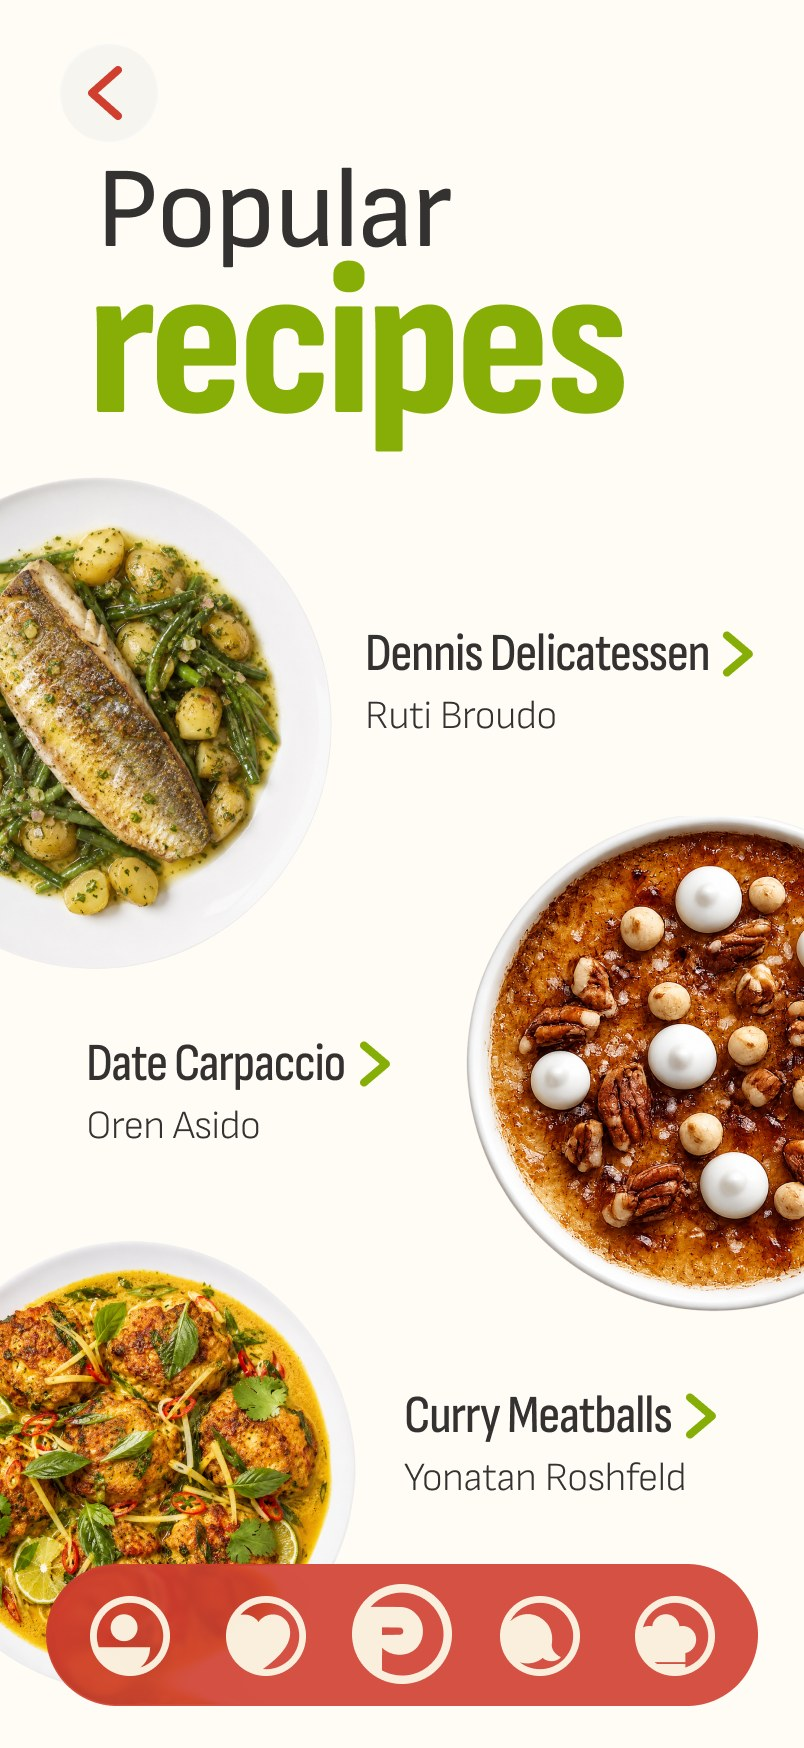
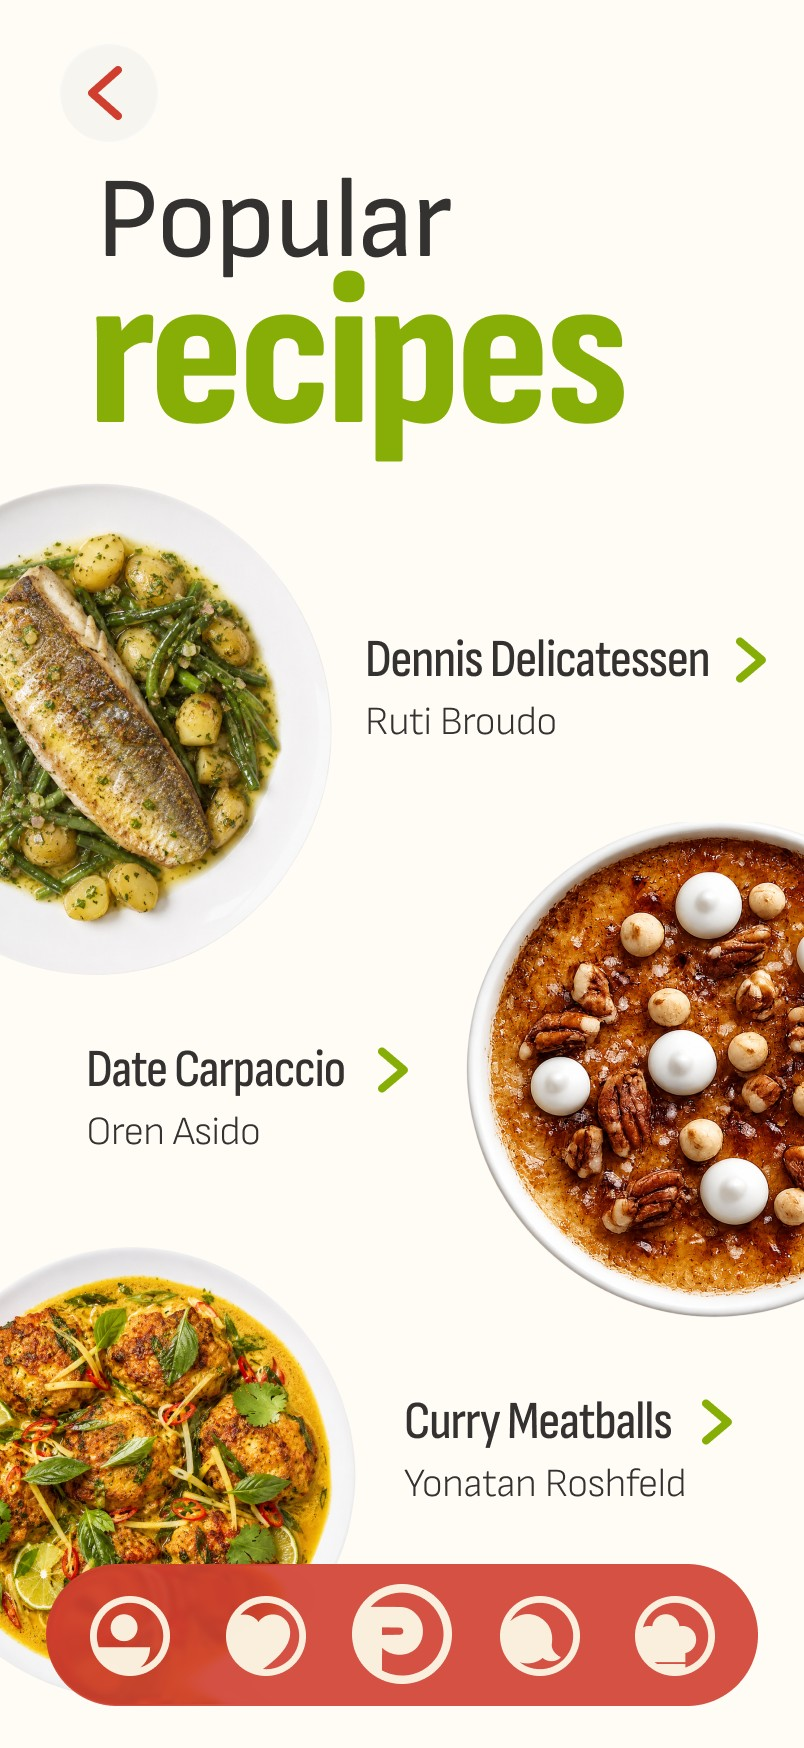
Kiddoz: redesigned screens, wireframes and updated project info; resume bullets
Claude-Session: https://claude.ai/code/session_01NL83kx43z6CjtTsG6VWgUt

diff --git a/projects/kiddoz.html b/projects/kiddoz.html
@@ -9,7 +9,7 @@
 <link rel="preconnect" href="https://fonts.gstatic.com" crossorigin>
 <link href="https://fonts.googleapis.com/css2?family=Inter:opsz,wght@14..32,400..700&display=swap" rel="stylesheet">
 <link rel="stylesheet" href="../css/style.css">
-<link rel="stylesheet" href="../css/case-study.css?v=48">
+<link rel="stylesheet" href="../css/case-study.css?v=49">
 <link rel="icon" href="../favicon.svg" type="image/svg+xml">
 <link rel="icon" href="../favicon-32.png" sizes="32x32" type="image/png">
 <link rel="apple-touch-icon" href="../apple-touch-icon.png">
@@ -42,20 +42,20 @@
       </h1>
       <p class="cs-hero-sub reveal"><span class="en">Kiddoz brings every kids' activity nearby into one place,<br>matched to your child.</span></p>
       <p class="cs-lede">
-        <span class="en">Parents look for something to do with their kids almost every day. The answers are spread across WhatsApp groups, Facebook pages and municipal sites, often outdated and rarely filtered by age. Kiddoz gathers them on one map, by location, cost and the child's personality, with an AI chat that helps parents find the right activity fast.</span>
+        <span class="en">Kiddoz is a mobile app designed to help parents discover activities tailored to their children's interests, ages and location. It started as a collaborative academic project; I later revisited Kiddoz independently to refine its visual identity, typography, iconography and overall interface consistency, while preserving the original user experience and product structure.</span>
       </p>
       </div>
     </div>
     <div class="cs-media">
-      <div class="kz-stage reveal" role="img" aria-label="Three Kiddoz screens: the welcome screen, the activity map and the smiley onboarding screen">
-        <div class="kz-phone kz-l kz-out"><img src="../images/kiddoz/v2/screen-profile-nili.jpg" alt=""></div>
-        <div class="kz-phone kz-c"><img src="../images/kiddoz/v2/screen-map.jpg" alt=""></div>
-        <div class="kz-phone kz-r kz-out"><img src="../images/kiddoz/onboarding-1.jpg" alt=""></div>
+      <div class="kz-stage reveal" role="img" aria-label="Three redesigned Kiddoz screens: a child’s personal area, the activity map and the welcome screen">
+        <div class="kz-phone kz-l kz-out"><img src="../images/kiddoz/v3/screen-profile-kids.jpg" alt=""></div>
+        <div class="kz-phone kz-c"><img src="../images/kiddoz/v3/screen-map.jpg" alt=""></div>
+        <div class="kz-phone kz-r kz-out"><img src="../images/kiddoz/v3/screen-welcome.jpg" alt=""></div>
       </div>
       <div class="cs-meta reveal">
-        <div><span class="cs-label"><span class="en">Role</span></span><span class="v"><span class="en">Led concept &amp; ideation, co-designed the UX/UI and visual language</span></span></div>
+        <div><span class="cs-label"><span class="en">Project type</span></span><span class="v"><span class="en">Academic team project · Independent UI redesign</span></span></div>
+        <div><span class="cs-label"><span class="en">My role</span></span><span class="v"><span class="en">UX research, product ideation &amp; UI design (team)<br>Visual redesign &amp; UI refinement (independent)</span></span></div>
         <div><span class="cs-label"><span class="en">Team</span></span><span class="v"><span class="en">Shelly Elkabetz, Adi Fleisher, Aviv Navot</span></span></div>
-        <div><span class="cs-label"><span class="en">Platform</span></span><span class="v"><span class="en">iOS app</span></span></div>
         <div><span class="cs-label"><span class="en">Methods</span></span><span class="v accent"><span class="en">Interviews, journey map, competitive analysis</span></span></div>
       </div>
     </div>
@@ -336,11 +336,11 @@
         <div class="cs-card reveal">
           <span class="cs-label"><span class="en">Information architecture</span></span>
           <div class="cs-tabbar" aria-hidden="true">
-            <span><span class="en">Profile</span></span>
-            <span><span class="en">Favorites</span></span>
-            <span class="on"><span class="en">Map</span></span>
-            <span><span class="en">Activities</span></span>
             <span><span class="en">Chat</span></span>
+            <span><span class="en">Activities</span></span>
+            <span class="on"><span class="en">Explore</span></span>
+            <span><span class="en">Favorites</span></span>
+            <span><span class="en">Profile</span></span>
           </div>
           <p class="d"><span class="en">Five tabs with the map in the center, because "what's near me?" is where most searches start. The chat has its own tab, one tap from anywhere.</span></p>
         </div>
@@ -395,13 +395,13 @@
 
     <div class="cs-media cs-sub">
       <div class="cs-wires">
-        <figure class="cs-wire-item"><img src="../images/kiddoz/v2/wf-chat-sketch.jpg" alt="Wireframe: AI chat" loading="lazy"></figure>
-        <figure class="cs-wire-item"><img src="../images/kiddoz/v2/wf-activity-sketch.jpg" alt="Wireframe: activity page" loading="lazy"></figure>
-        <figure class="cs-wire-item"><img src="../images/kiddoz/v2/wf-checkout-sketch.jpg" alt="Wireframe: choosing kids and paying" loading="lazy"></figure>
-        <figure class="cs-wire-item"><img src="../images/kiddoz/v2/wf-confirm-sketch.jpg" alt="Wireframe: booking confirmed" loading="lazy"></figure>
-        <figure class="cs-wire-item"><img src="../images/kiddoz/v2/wf-friends-sketch.jpg" alt="Wireframe: my friends" loading="lazy"></figure>
+        <figure class="cs-wire-item"><img src="../images/kiddoz/v3/wf-chat.jpg" alt="Wireframe: chat with Kiddy" loading="lazy"></figure>
+        <figure class="cs-wire-item"><img src="../images/kiddoz/v3/wf-activity.jpg" alt="Wireframe: activity page" loading="lazy"></figure>
+        <figure class="cs-wire-item"><img src="../images/kiddoz/v3/wf-checkout.jpg" alt="Wireframe: choosing a child and booking" loading="lazy"></figure>
+        <figure class="cs-wire-item"><img src="../images/kiddoz/v3/wf-confirm.jpg" alt="Wireframe: booking confirmed" loading="lazy"></figure>
+        <figure class="cs-wire-item"><img src="../images/kiddoz/v3/wf-friends.jpg" alt="Wireframe: my friends" loading="lazy"></figure>
       </div>
-      <p class="cs-caption"><span class="en">Wireframes for the chat and the booking flow: activity, choosing which kids are coming, paying with a benefit, and confirmation.</span></p>
+      <p class="cs-caption"><span class="en">Wireframes for the chat and the booking flow: activity, choosing which child is coming, paying with a perk, and confirmation.</span></p>
     </div>
   </section>
 
@@ -412,19 +412,19 @@
         <span class="cs-glass g-red" style="--fd:-4.5s" aria-hidden="true"><span class="pane"><span>05</span></span></span>
         <div><span class="cs-pill"><span class="en">Prototype · Final design</span></span></div>
         <h2 class="cs-h2"><span class="en">Playful for kids, <em>clear for parents.</em></span></h2>
-        <p class="cs-lede"><span class="en">Bright colors and a friendly smiley for the mood, big round buttons and short labels for parents scrolling with one hand.</span></p>
+        <p class="cs-lede"><span class="en">Bright colors and a friendly smiley for the mood, clear type and short labels for parents scrolling with one hand. In my independent redesign I unified the type system, replaced the icons with one outline set, moved navigation into a floating bar and used the original brand colors with more restraint, keeping every screen and flow.</span></p>
       </div>
     </div>
 
     <div class="cs-media" style="margin-top:clamp(48px,6vw,80px)">
       <div class="cs-phones-panel reveal">
         <div class="cs-phones">
-          <div class="cs-phone"><div class="shell"><div class="screen"><img src="../images/kiddoz/v2/screen-map.jpg" alt="Map home with activity pins" loading="lazy"></div></div><span class="t"><span class="en">Map home</span></span><span class="d"><span class="en">Every pin is something happening near you.</span></span></div>
-          <div class="cs-phone"><div class="shell"><div class="screen"><img src="../images/kiddoz/v2/screen-filter.jpg" alt="Filter: free, girls only, boys only, up to 1 km, up to 8 kids, indoors" loading="lazy"></div></div><span class="t"><span class="en">Quick filter</span></span><span class="d"><span class="en">Free, up to 1 km, small groups, indoors. One tap each.</span></span></div>
-          <div class="cs-phone"><div class="shell"><div class="screen"><img src="../images/kiddoz/v2/screen-activity.jpg" alt="Activity page: circus in Holon" loading="lazy"></div></div><span class="t"><span class="en">Activity</span></span><span class="d"><span class="en">When, where and how much, plus a check if it fits your child.</span></span></div>
-          <div class="cs-phone"><div class="shell"><div class="screen"><img src="../images/kiddoz/v2/screen-chat.jpg" alt="Chat opening: free typing or guided answers" loading="lazy"></div></div><span class="t"><span class="en">Chat</span></span><span class="d"><span class="en">The smiley asks how you'd like to talk.</span></span></div>
-          <div class="cs-phone"><div class="shell"><div class="screen"><img src="../images/kiddoz/v2/screen-chat-budget.jpg" alt="Chat: choosing a price range" loading="lazy"></div></div><span class="t"><span class="en">Guided answers</span></span><span class="d"><span class="en">Each tap narrows it down, like choosing a budget.</span></span></div>
-          <div class="cs-phone"><div class="shell"><div class="screen"><img src="../images/kiddoz/v2/screen-profile.jpg" alt="Personal area with a profile for each child" loading="lazy"></div></div><span class="t"><span class="en">Profile</span></span><span class="d"><span class="en">A profile for each child, with friends, groups and benefits.</span></span></div>
+          <div class="cs-phone"><div class="shell"><div class="screen"><img src="../images/kiddoz/v3/screen-map.jpg" alt="Explore map with activity pins" loading="lazy"></div></div><span class="t"><span class="en">Explore</span></span><span class="d"><span class="en">Every pin is something happening near you.</span></span></div>
+          <div class="cs-phone"><div class="shell"><div class="screen"><img src="../images/kiddoz/v3/screen-filter.jpg" alt="Filters: free, girls only, boys only, within 1 km, up to 8 participants, indoors" loading="lazy"></div></div><span class="t"><span class="en">Quick filter</span></span><span class="d"><span class="en">Free, within 1 km, small groups, indoors. One tap each.</span></span></div>
+          <div class="cs-phone"><div class="shell"><div class="screen"><img src="../images/kiddoz/v3/screen-activity.jpg" alt="Activity page: circus in Holon" loading="lazy"></div></div><span class="t"><span class="en">Activity</span></span><span class="d"><span class="en">When, where and how much, plus a check if it fits your child.</span></span></div>
+          <div class="cs-phone"><div class="shell"><div class="screen"><img src="../images/kiddoz/v3/screen-chat.jpg" alt="Chat with Kiddy: type freely or guided replies" loading="lazy"></div></div><span class="t"><span class="en">Chat</span></span><span class="d"><span class="en">Kiddy asks how you'd like to talk.</span></span></div>
+          <div class="cs-phone"><div class="shell"><div class="screen"><img src="../images/kiddoz/v3/screen-chat-budget.jpg" alt="Chat: choosing a price range" loading="lazy"></div></div><span class="t"><span class="en">Guided answers</span></span><span class="d"><span class="en">Each tap narrows it down, like choosing a budget.</span></span></div>
+          <div class="cs-phone"><div class="shell"><div class="screen"><img src="../images/kiddoz/v3/screen-kid-details.jpg" alt="A child’s profile: traits, hobbies and needs" loading="lazy"></div></div><span class="t"><span class="en">Profile</span></span><span class="d"><span class="en">A profile for each child: traits, hobbies and needs.</span></span></div>
         </div>
       </div>
     </div>

diff --git a/resume.html b/resume.html
@@ -9,7 +9,7 @@
 <link rel="preconnect" href="https://fonts.gstatic.com" crossorigin>
 <link href="https://fonts.googleapis.com/css2?family=Inter:opsz,wght@14..32,300..700&display=swap" rel="stylesheet">
 <link rel="stylesheet" href="css/style.css">
-<link rel="stylesheet" href="css/case-study.css?v=48">
+<link rel="stylesheet" href="css/case-study.css?v=49">
 <link rel="icon" href="favicon.svg" type="image/svg+xml">
 <link rel="icon" href="favicon-32.png" sizes="32x32" type="image/png">
 <link rel="apple-touch-icon" href="apple-touch-icon.png">
@@ -79,9 +79,9 @@
           </section>
           <section>
             <h3 class="rs-sec">Selected Projects</h3>
-            <div class="rs-item"><a class="rs-proj" href="projects/pinch.html">Pinch | Product Design, UX/UI &amp; Branding</a><p>Graduation project, awarded Best Exhibition. An AI cooking platform built around Israeli chefs. I interviewed chef Assaf Granit and turned it into an AI conversation flow with Claude, designed the UX, UI and brand, and explored the landing page in Lovable, then designed it in Figma.</p></div>
-            <div class="rs-item"><a class="rs-proj" href="projects/kiddoz.html">Kiddoz | Product Design &amp; UX/UI</a><p>A team project helping parents find activities for kids aged 3–10 based on location, budget and preferences. I led the concept and ideation, and co-designed the UX/UI and visual language.</p></div>
-            <div class="rs-item"><a class="rs-proj" href="projects/blume-and-co.html">Blume &amp; Co | Branding &amp; Digital Design</a><p>Branding for a floral and lifestyle boutique: logo, color palette, AI-generated imagery and brand applications, plus a delivery app with catalog, favorites, order tracking and checkout.</p></div>
+            <div class="rs-item"><a class="rs-proj" href="projects/pinch.html">Pinch | Product Design, UX/UI &amp; Branding</a><ul class="rs-bul"><li>AI cooking platform built around Israeli chefs (Best Exhibition award)</li><li>Shenkar graduation project, designed end to end</li><li>Interviewed chefs Assaf Granit and Tzila Shifro; analyzed competitors</li><li>Turned Assaf Granit's interview into an AI conversation in Claude</li><li>Designed the UX, UI, brand and landing page (Lovable, then Figma)</li></ul></div>
+            <div class="rs-item"><a class="rs-proj" href="projects/kiddoz.html">Kiddoz | UX/UI Design &amp; Independent Redesign</a><ul class="rs-bul"><li>Team project helping parents find activities for kids aged 3–10</li><li>Team role: UX research, product ideation and UI design</li><li>Independent redesign: a Figma design system, type and icons</li><li>Refined every screen and the prototype, keeping the original UX</li></ul></div>
+            <div class="rs-item"><a class="rs-proj" href="projects/blume-and-co.html">Blume &amp; Co | UX/UI &amp; Branding</a><ul class="rs-bul"><li>Designed a delivery app: catalog, favorites, tracking and checkout</li><li>Created the brand identity for a floral and lifestyle boutique</li><li>Designed logo, palette, AI-generated imagery and brand applications</li></ul></div>
           </section>
           <section>
             <h3 class="rs-sec">Work Experience</h3>
@@ -91,7 +91,7 @@
           </section>
           <section>
             <h3 class="rs-sec">Military Service</h3>
-            <div class="rs-item"><b>2020–2022 | Artillery Instructor, MLRS | IDF</b><p>Trained soldiers to operate launch and fire-control systems, in class and in the field. Promoted to Senior Instructor in November 2020: managed the department, planned and assigned training, coordinated schedules and worked closely with senior commanders and officers.</p><p class="rs-award">Base Commander's Award of Excellence | September 2021</p></div>
+            <div class="rs-item"><b>2020–2022 | Artillery Instructor, MLRS | IDF</b><ul class="rs-bul"><li>Trained soldiers on launch and fire-control systems</li><li>Promoted to Senior Instructor (Nov 2020) and ran the department</li><li>Planned and assigned training and coordinated schedules</li><li>Worked closely with senior commanders and officers</li></ul><p class="rs-award">Base Commander's Award of Excellence | September 2021</p></div>
           </section>
         </div>
       </div>

diff --git a/index.html b/index.html
@@ -9,7 +9,7 @@
 <link rel="preconnect" href="https://fonts.gstatic.com" crossorigin>
 <link href="https://fonts.googleapis.com/css2?family=Inter:opsz,wght@14..32,300..700&display=swap" rel="stylesheet">
 <link rel="stylesheet" href="css/style.css">
-<link rel="stylesheet" href="css/case-study.css?v=48">
+<link rel="stylesheet" href="css/case-study.css?v=49">
 <link rel="stylesheet" href="css/home.css?v=15">
 <link rel="icon" href="favicon.svg" type="image/svg+xml">
 <link rel="icon" href="favicon-32.png" sizes="32x32" type="image/png">
@@ -62,7 +62,7 @@
             <span class="hm-go" aria-hidden="true"><svg viewBox="0 0 24 24"><path d="M5 12h14M13 6l6 6-6 6"/></svg></span>
           </div>
           <div class="hm-media hm-phones" aria-hidden="true">
-            <div class="hm-phone p-l"><img src="images/pinch/v2/screen-popular.jpg?v=1" alt="" loading="lazy"></div>
+            <div class="hm-phone p-l"><img src="images/pinch/v2/screen-popular.jpg?v=2" alt="" loading="lazy"></div>
             <div class="hm-phone p-c"><img src="images/pinch/v2/screen-chefs.jpg?v=3" alt=""></div>
             <div class="hm-phone p-r"><img src="images/pinch/v2/screen-chat.jpg?v=2" alt="" loading="lazy"></div>
           </div>
@@ -78,8 +78,8 @@
             <span class="hm-go" aria-hidden="true"><svg viewBox="0 0 24 24"><path d="M5 12h14M13 6l6 6-6 6"/></svg></span>
           </div>
           <div class="hm-media hm-phones hm-air" aria-hidden="true">
-            <div class="hm-phone k-a"><img src="images/kiddoz/onboarding-2.jpg" alt="" loading="lazy"></div>
-            <div class="hm-phone k-b"><img src="images/kiddoz/onboarding-1.jpg" alt="" loading="lazy"></div>
+            <div class="hm-phone k-a"><img src="images/kiddoz/v3/screen-map.jpg" alt="" loading="lazy"></div>
+            <div class="hm-phone k-b"><img src="images/kiddoz/v3/screen-match.jpg" alt="" loading="lazy"></div>
           </div>
         </a>
       </article>

diff --git a/css/case-study.css b/css/case-study.css
@@ -736,6 +736,10 @@ body.resume{ padding-top:0; }
 .rs-item p{ margin:4px 0 0; font-size:14.5px; line-height:1.6; color:var(--cs-soft); }
 .rs-proj{ display:inline-block; font-size:15px; font-weight:600; color:var(--cs-ink); text-decoration:none; background-image:linear-gradient(var(--c-lime),var(--c-lime)); background-repeat:no-repeat; background-size:100% 2px; background-position:0 100%; transition:background-size .4s cubic-bezier(.16,1,.3,1); }
 .rs-proj:hover{ background-size:100% 100%; }
+.rs-bul{ list-style:disc outside !important; margin:6px 0 0; padding-left:18px !important; font-size:14.5px; line-height:1.6; color:var(--cs-soft); }
+.rs-bul li{ display:list-item !important; margin:2px 0; }
+.rs-bul + .rs-award{ margin-top:8px; }
+.rs-bul li::marker{ color:var(--cs-accent, #c5a4f5); }
 .rs-award{ font-weight:500; color:var(--cs-ink) !important; }
 @media (max-width:760px){ .rs-cols{ grid-template-columns:1fr; } .rs-main{ padding-left:22px; } .rs-main .rs-sec::before{ left:-27px; } .rs-bar{ padding:22px; } }
 .rs-doc, .rs-doc h2, .rs-doc h3, .rs-bar h1{ font-family:var(--cs-display); }

diff --git a/projects/jaco.html b/projects/jaco.html
@@ -9,7 +9,7 @@
 <link rel="preconnect" href="https://fonts.gstatic.com" crossorigin>
 <link href="https://fonts.googleapis.com/css2?family=Inter:opsz,wght@14..32,400..800&family=Heebo:wght@500;700;800&display=swap" rel="stylesheet">
 <link rel="stylesheet" href="../css/style.css">
-<link rel="stylesheet" href="../css/case-study.css?v=48">
+<link rel="stylesheet" href="../css/case-study.css?v=49">
 <link rel="icon" href="../favicon.svg" type="image/svg+xml">
 <link rel="icon" href="../favicon-32.png" sizes="32x32" type="image/png">
 <link rel="apple-touch-icon" href="../apple-touch-icon.png">

diff --git a/projects/pinch.html b/projects/pinch.html
@@ -9,7 +9,7 @@
 <link rel="preconnect" href="https://fonts.gstatic.com" crossorigin>
 <link href="https://fonts.googleapis.com/css2?family=Inter:opsz,wght@14..32,400..700&display=swap" rel="stylesheet">
 <link rel="stylesheet" href="../css/style.css">
-<link rel="stylesheet" href="../css/case-study.css?v=48">
+<link rel="stylesheet" href="../css/case-study.css?v=49">
 <link rel="preload" as="image" href="../images/pinch/v2/home-loop-poster.jpg?v=3">
 <link rel="icon" href="../favicon.svg" type="image/svg+xml">
 <link rel="icon" href="../favicon-32.png" sizes="32x32" type="image/png">

diff --git a/projects/blume-and-co.html b/projects/blume-and-co.html
@@ -9,7 +9,7 @@
 <link rel="preconnect" href="https://fonts.gstatic.com" crossorigin>
 <link href="https://fonts.googleapis.com/css2?family=Inter:opsz,wght@14..32,400..700&display=swap" rel="stylesheet">
 <link rel="stylesheet" href="../css/style.css">
-<link rel="stylesheet" href="../css/case-study.css?v=48">
+<link rel="stylesheet" href="../css/case-study.css?v=49">
 <link rel="preload" as="image" href="../images/blume/v2/onboarding-poster.jpg">
 <link rel="icon" href="../favicon.svg" type="image/svg+xml">
 <link rel="icon" href="../favicon-32.png" sizes="32x32" type="image/png">

diff --git a/projects/nila.html b/projects/nila.html
@@ -9,7 +9,7 @@
 <link rel="preconnect" href="https://fonts.gstatic.com" crossorigin>
 <link href="https://fonts.googleapis.com/css2?family=Inter:opsz,wght@14..32,400..700&display=swap" rel="stylesheet">
 <link rel="stylesheet" href="../css/style.css">
-<link rel="stylesheet" href="../css/case-study.css?v=48">
+<link rel="stylesheet" href="../css/case-study.css?v=49">
 <link rel="icon" href="../favicon.svg" type="image/svg+xml">
 <link rel="icon" href="../favicon-32.png" sizes="32x32" type="image/png">
 <link rel="apple-touch-icon" href="../apple-touch-icon.png">

diff --git a/projects/rami-portis.html b/projects/rami-portis.html
@@ -9,7 +9,7 @@
 <link rel="preconnect" href="https://fonts.gstatic.com" crossorigin>
 <link href="https://fonts.googleapis.com/css2?family=Inter:opsz,wght@14..32,400..700&display=swap" rel="stylesheet">
 <link rel="stylesheet" href="../css/style.css">
-<link rel="stylesheet" href="../css/case-study.css?v=48">
+<link rel="stylesheet" href="../css/case-study.css?v=49">
 <link rel="icon" href="../favicon.svg" type="image/svg+xml">
 <link rel="icon" href="../favicon-32.png" sizes="32x32" type="image/png">
 <link rel="apple-touch-icon" href="../apple-touch-icon.png">

diff --git a/about.html b/about.html
@@ -9,7 +9,7 @@
 <link rel="preconnect" href="https://fonts.gstatic.com" crossorigin>
 <link href="https://fonts.googleapis.com/css2?family=Inter:opsz,wght@14..32,300..700&display=swap" rel="stylesheet">
 <link rel="stylesheet" href="css/style.css">
-<link rel="stylesheet" href="css/case-study.css?v=48">
+<link rel="stylesheet" href="css/case-study.css?v=49">
 <link rel="stylesheet" href="css/home.css?v=11">
 <link rel="icon" href="favicon.svg" type="image/svg+xml">
 <link rel="icon" href="favicon-32.png" sizes="32x32" type="image/png">
